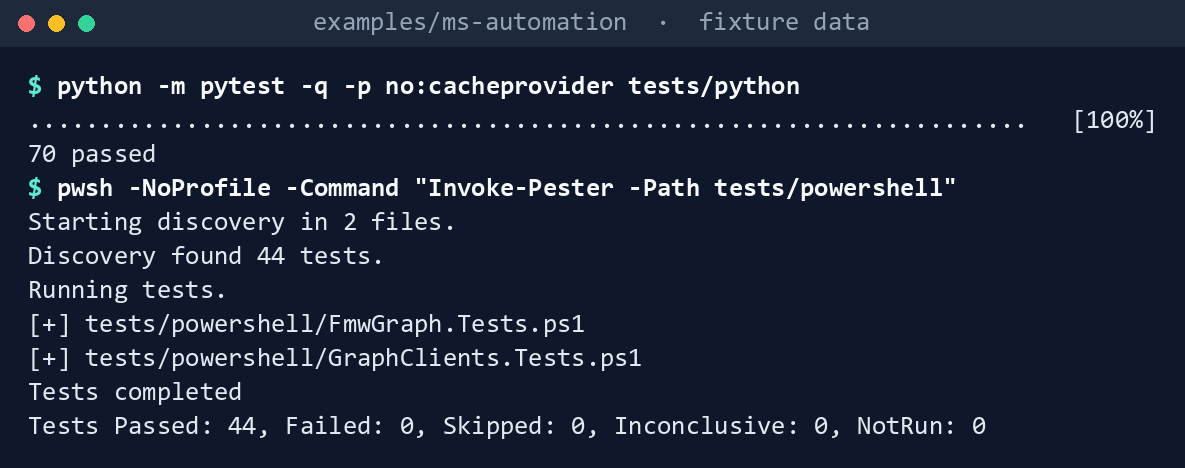
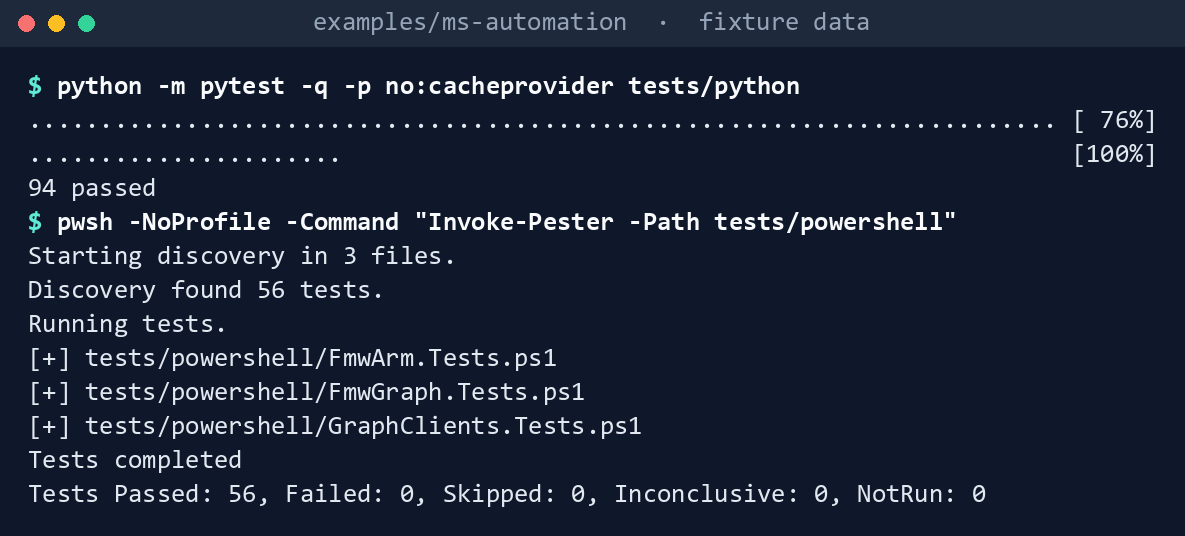
Kit captures and Module 1: the ms-automation test counts with Module 4's tests
The Arc tests add 24 Python and 12 Pester tests to examples/ms-automation, so
Book 19 Chapter 02's Lab 1 capture (02-9) and Module 1's expected output now
read 94 passed and Tests Passed: 56. Regenerated with
scripts/kit_captures.py adm --images.

diff --git a/docs/training/ms-automation-foundations.md b/docs/training/ms-automation-foundations.md
@@ -334,7 +334,7 @@ You prove, on a laptop, that the example client picks the right cloud, refuses t
    pwsh -NoProfile -Command "Invoke-Pester -Path tests/powershell"
    ```
 
-   Expected: `70 passed`, then `Tests Passed: 44, Failed: 0, Skipped: 0`.
+   Expected: `94 passed`, then `Tests Passed: 56, Failed: 0, Skipped: 0`. The counts include Module 4's Arc tests (24 in Python, 12 in Pester).
 
 **Check your work:** for any tenant, you can name the hosts, the scope and the PowerShell environment, and show that the client refuses the wrong one.
 
